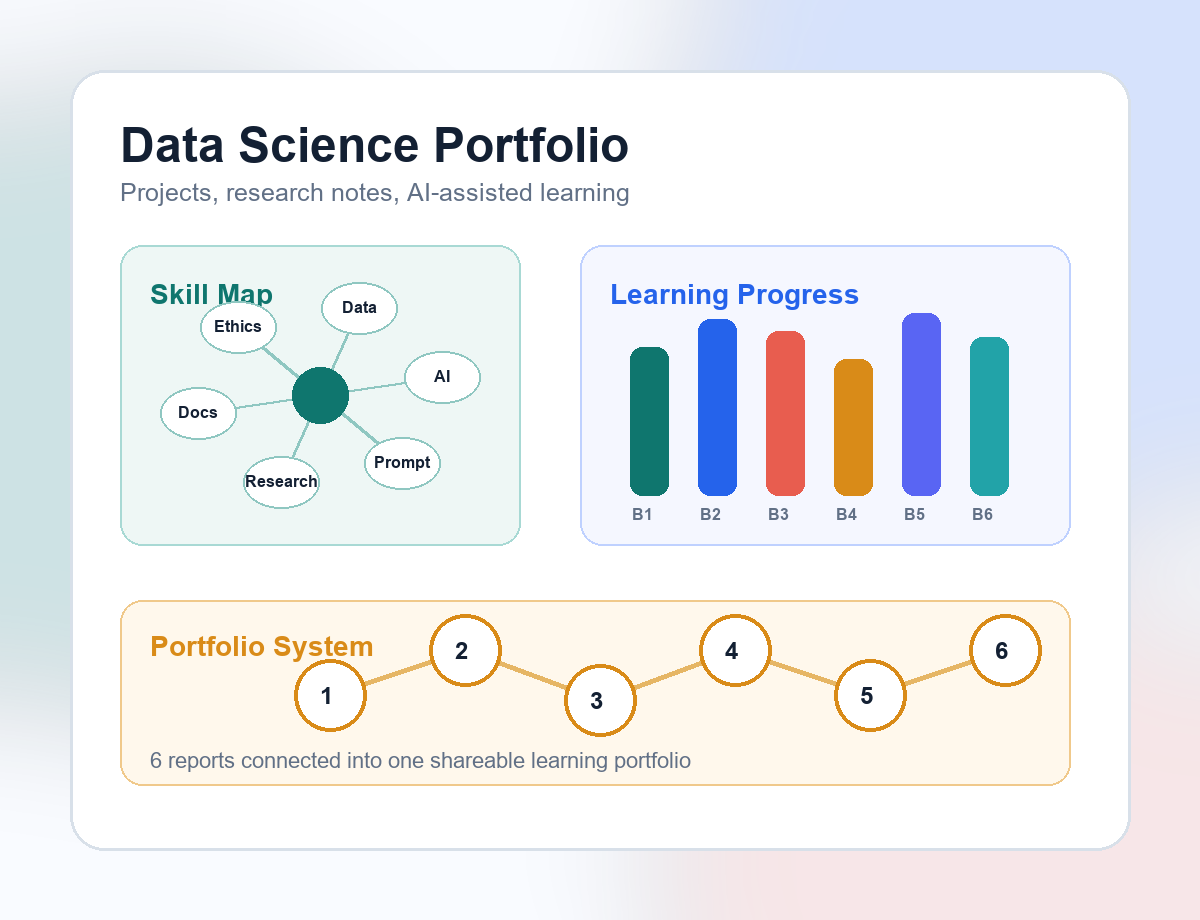
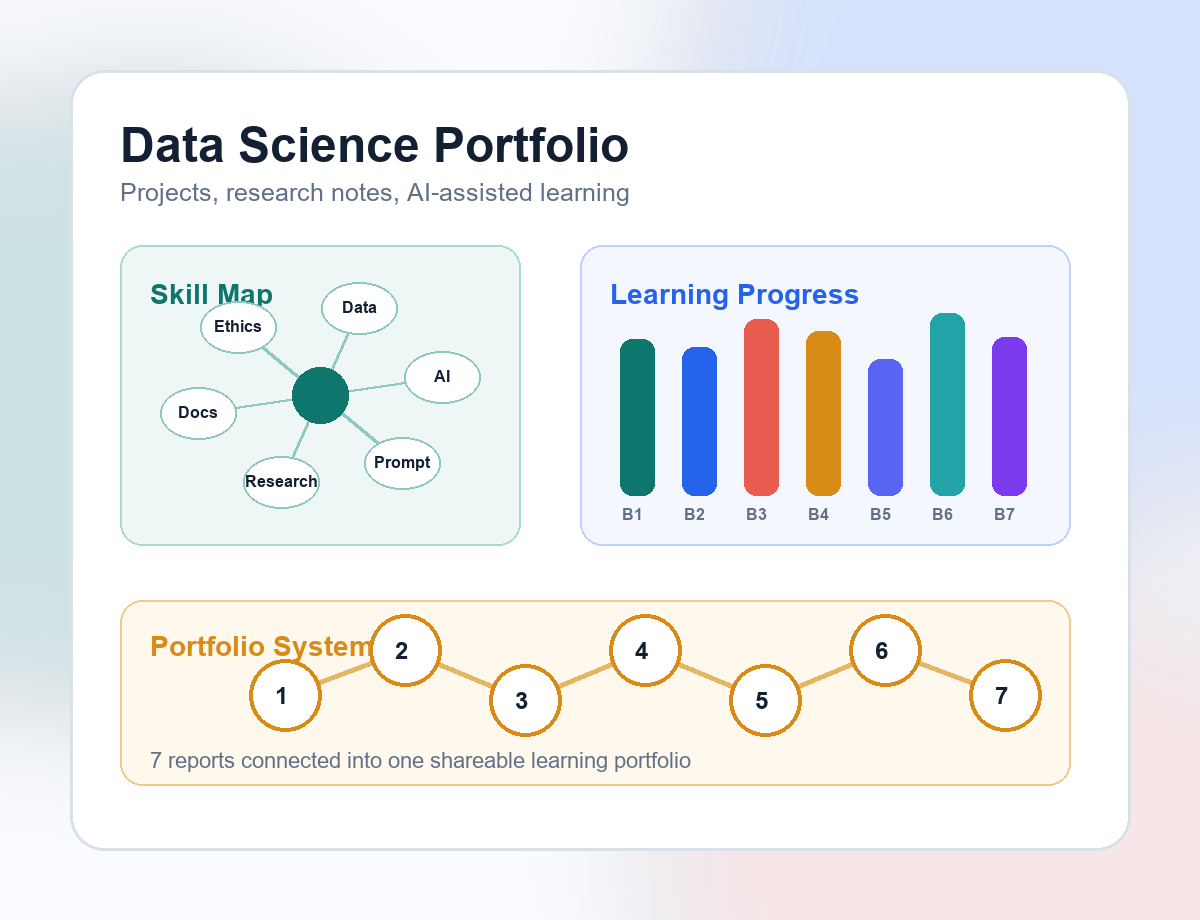
Add files via upload

diff --git a/index.html b/index.html
@@ -51,7 +51,7 @@
           </div>
 
           <div class="hero-actions">
-            <a class="primary-action" href="#du-an">Xem 6 bài tập</a>
+            <a class="primary-action" href="#du-an">Xem 7 bài tập</a>
             <a class="secondary-action" href="#tong-ket">Xem tổng kết</a>
           </div>
         </div>
@@ -75,13 +75,25 @@
       <section class="projects-section" id="du-an">
         <div class="section-heading reveal">
           <p class="eyebrow">Sản phẩm học tập</p>
-          <h2>6 bài tập đã hoàn thành</h2>
+          <h2>7 bài tập đã hoàn thành</h2>
           <p>Mỗi bài tập được trình bày theo mục tiêu, quá trình thực hiện và sản phẩm PDF cuối cùng.</p>
         </div>
 
         <div class="project-grid">
           <article class="project-card reveal">
             <span class="project-number">01</span>
+            <h3>Thực hành quản lý tệp và thư mục Windows</h3>
+            <dl>
+              <dt>Mục tiêu</dt>
+              <dd>Rèn luyện kỹ năng tạo, đổi tên, sao chép, di chuyển, xóa và khôi phục tệp/thư mục trên hệ điều hành Windows.</dd>
+              <dt>Quá trình</dt>
+              <dd>Thực hiện từng thao tác trong File Explorer, sử dụng ảnh chụp thật ở từng bước và hoàn thiện báo cáo PDF có minh chứng đầy đủ.</dd>
+            </dl>
+            <a class="file-link" href="bai-1-thuc-hanh-quan-ly-tep-windows.pdf" target="_blank" rel="noreferrer">Mở sản phẩm PDF</a>
+          </article>
+
+          <article class="project-card reveal">
+            <span class="project-number">02</span>
             <h3>Tìm kiếm và đánh giá thông tin học thuật</h3>
             <dl>
               <dt>Mục tiêu</dt>
@@ -89,11 +101,11 @@
               <dt>Quá trình</dt>
               <dd>Chọn chủ đề AI tạo sinh trong học tập ngành Data Science, thu thập 10 nguồn tham khảo, đánh giá độ tin cậy và lập danh mục Harvard.</dd>
             </dl>
-            <a class="file-link" href="Tìm kiếm và đánh giá thông tin học thuật.pdf" target="_blank" rel="noreferrer">Mở sản phẩm PDF</a>
+            <a class="file-link" href="bai-2-tim-kiem-danh-gia-thong-tin-hoc-thuat.pdf" target="_blank" rel="noreferrer">Mở sản phẩm PDF</a>
           </article>
 
           <article class="project-card reveal">
-            <span class="project-number">02</span>
+            <span class="project-number">03</span>
             <h3>Viết Prompt hiệu quả cho các tác vụ học tập</h3>
             <dl>
               <dt>Mục tiêu</dt>
@@ -101,11 +113,11 @@
               <dt>Quá trình</dt>
               <dd>Xây dựng prompt cơ bản, cải tiến và nâng cao cho tóm tắt bài báo, giải thích khái niệm và tạo câu hỏi ôn tập trong Data Science.</dd>
             </dl>
-            <a class="file-link" href="Viết Prompt hiệu quả cho các tác vụ học tập.pdf" target="_blank" rel="noreferrer">Mở sản phẩm PDF</a>
+            <a class="file-link" href="bai-3-viet-prompt-hieu-qua.pdf" target="_blank" rel="noreferrer">Mở sản phẩm PDF</a>
           </article>
 
           <article class="project-card reveal">
-            <span class="project-number">03</span>
+            <span class="project-number">04</span>
             <h3>Sử dụng công cụ hợp tác trực tuyến</h3>
             <dl>
               <dt>Mục tiêu</dt>
@@ -113,11 +125,11 @@
               <dt>Quá trình</dt>
               <dd>Mô phỏng dự án phân tích dữ liệu khảo sát sinh viên, dùng Trello, Google Docs và Discord để quản lý tiến độ, soạn thảo và trao đổi nhóm.</dd>
             </dl>
-            <a class="file-link" href="Sử dụng công cụ hợp tác trực tuyến cho dự án nhóm .pdf" target="_blank" rel="noreferrer">Mở sản phẩm PDF</a>
+            <a class="file-link" href="bai-4-cong-cu-hop-tac-truc-tuyen.pdf" target="_blank" rel="noreferrer">Mở sản phẩm PDF</a>
           </article>
 
           <article class="project-card reveal">
-            <span class="project-number">04</span>
+            <span class="project-number">05</span>
             <h3>Sử dụng AI tạo sinh hỗ trợ sáng tạo nội dung</h3>
             <dl>
               <dt>Mục tiêu</dt>
@@ -125,11 +137,11 @@
               <dt>Quá trình</dt>
               <dd>Dùng ChatGPT, công cụ tạo ảnh và Canva AI để lên ý tưởng, tạo minh họa và hoàn thiện poster về cách học Data Science có trách nhiệm khi dùng AI.</dd>
             </dl>
-            <a class="file-link" href="Sử dụng AI tạo sinh để hỗ trợ sáng tạo nội dung.pdf" target="_blank" rel="noreferrer">Mở sản phẩm PDF</a>
+            <a class="file-link" href="bai-5-ai-tao-sinh-sang-tao-noi-dung.pdf" target="_blank" rel="noreferrer">Mở sản phẩm PDF</a>
           </article>
 
           <article class="project-card reveal">
-            <span class="project-number">05</span>
+            <span class="project-number">06</span>
             <h3>Sử dụng AI có trách nhiệm trong học tập và nghiên cứu</h3>
             <dl>
               <dt>Mục tiêu</dt>
@@ -137,11 +149,11 @@
               <dt>Quá trình</dt>
               <dd>Nghiên cứu chính sách AI của một trường đại học, ghi lại prompt, phân tích đầu ra, xây dựng bộ nguyên tắc cá nhân và tạo infographic.</dd>
             </dl>
-            <a class="file-link" href="Sử dụng AI có trách nhiệm trong học tập và nghiên cứu.pdf" target="_blank" rel="noreferrer">Mở sản phẩm PDF</a>
+            <a class="file-link" href="bai-6-ai-co-trach-nhiem.pdf" target="_blank" rel="noreferrer">Mở sản phẩm PDF</a>
           </article>
 
           <article class="project-card reveal">
-            <span class="project-number">06</span>
+            <span class="project-number">07</span>
             <h3>Phân tích tài liệu với trợ lý nghiên cứu AI</h3>
             <dl>
               <dt>Mục tiêu</dt>
@@ -149,7 +161,7 @@
               <dt>Quá trình</dt>
               <dd>Chọn chủ đề phát hiện gian lận thẻ tín dụng bằng học máy, tổng hợp 5 bài báo thật và trình bày kết quả dưới dạng bảng so sánh.</dd>
             </dl>
-            <a class="file-link" href="Phân tích tài liệu với trợ lý nghiên cứu AI .pdf" target="_blank" rel="noreferrer">Mở sản phẩm PDF</a>
+            <a class="file-link" href="bai-7-phan-tich-tai-lieu-voi-ai.pdf" target="_blank" rel="noreferrer">Mở sản phẩm PDF</a>
           </article>
         </div>
       </section>
@@ -171,6 +183,7 @@
             <ul>
               <li>Tìm kiếm, chọn lọc và đánh giá nguồn học thuật.</li>
               <li>Viết prompt rõ mục tiêu, ngữ cảnh và định dạng đầu ra.</li>
+              <li>Quản lý tệp và thư mục trên Windows một cách có hệ thống.</li>
               <li>Sử dụng AI có trách nhiệm, biết kiểm chứng và trích dẫn.</li>
               <li>Quản lý dự án học tập bằng công cụ cộng tác trực tuyến.</li>
               <li>Trình bày sản phẩm cá nhân dưới dạng web portfolio.</li>

diff --git a/README.md b/README.md
@@ -13,7 +13,7 @@ Portfolio web tĩnh cho học phần Công nghệ số và ứng dụng AI.
 
 1. Vào https://github.com/new và tạo repo public tên `cns-portfolio`.
 2. Mở repo vừa tạo, chọn `Add file` > `Upload files`.
-3. Kéo toàn bộ file và thư mục trong thư mục này lên GitHub, gồm `index.html`, `assets`, 6 file PDF, `.nojekyll` và `README.md`.
+3. Kéo toàn bộ file trong thư mục này lên GitHub, gồm `index.html`, `styles.css`, `app.js`, `data-portfolio-visual.png`, 7 file PDF dạng `bai-*.pdf`, `.nojekyll` và `README.md`.
 4. Chọn `Commit changes`.
 5. Vào `Settings` > `Pages`.
 6. Ở mục `Build and deployment`, chọn `Deploy from a branch`.
@@ -24,4 +24,3 @@ Sau vài phút, link public sẽ có dạng:
 ```text
 https://TEN-GITHUB-CUA-BAN.github.io/cns-portfolio/
 ```
-